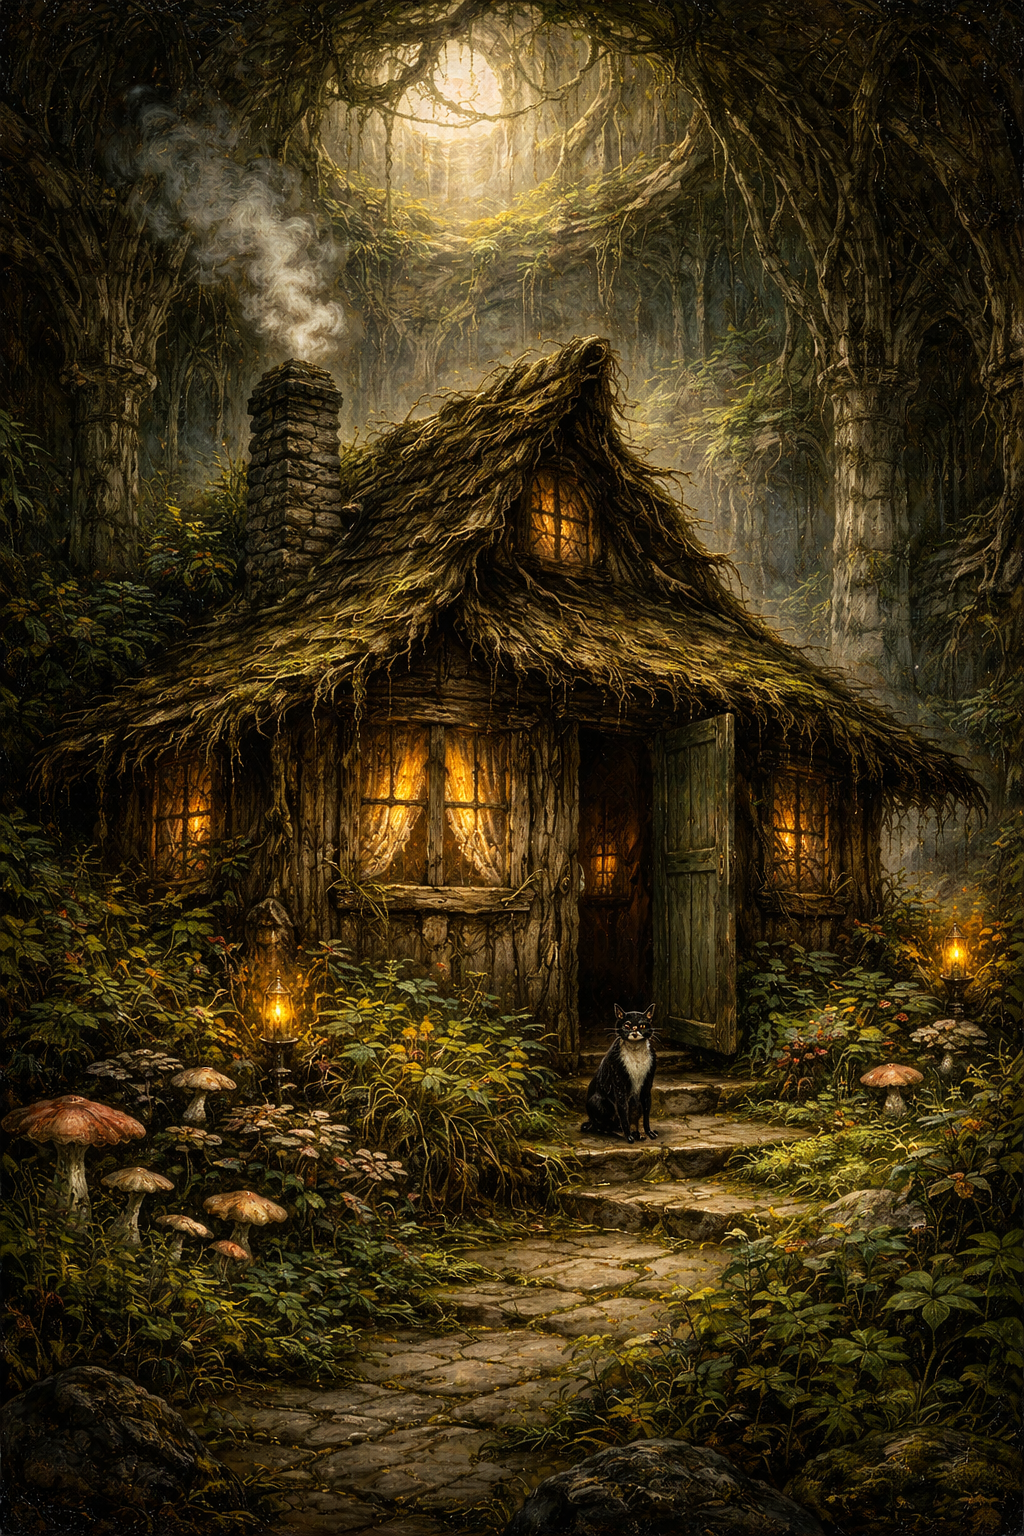
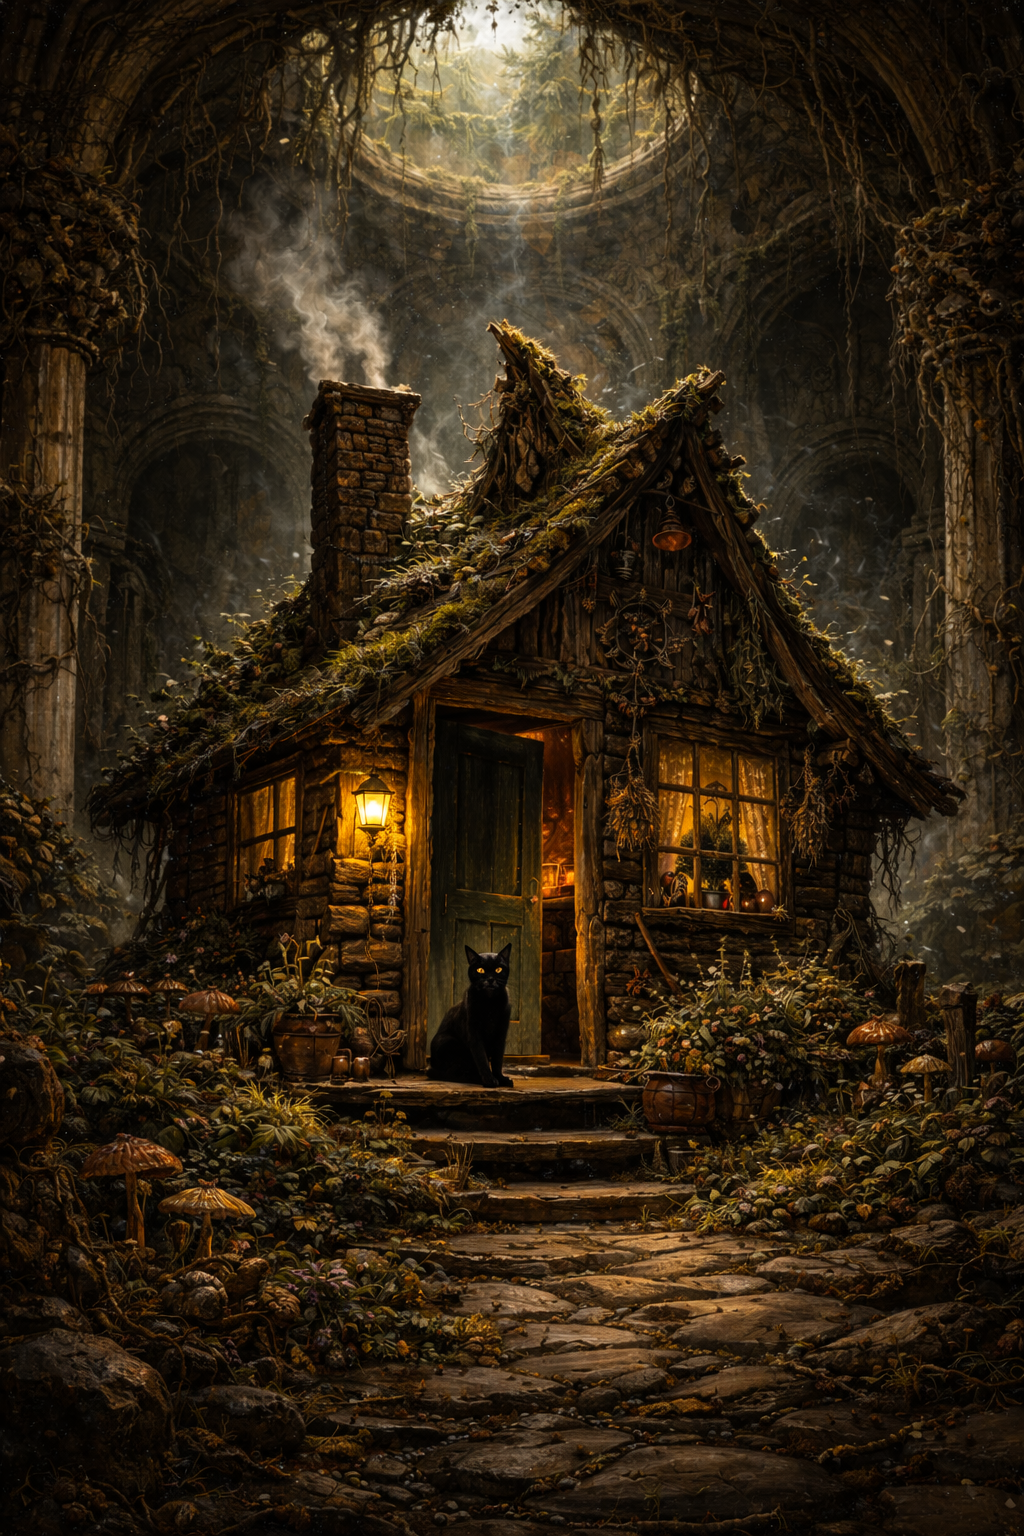
refactor(black-hollow): update Xerxes' appearance and NPC assets
- Change Xerxes' description from a tuxedo cat (black with white paws/face) to a completely black cat across all campaign notes and encounter descriptions.
- Add a dedicated portrait for Xerxes and update the environmental art for Morvanna's Cabin.

diff --git a/campaigns/black-hollow/Black Hollow - Minor NPCs.md b/campaigns/black-hollow/Black Hollow - Minor NPCs.md
@@ -130,7 +130,7 @@ campaign: "[[Black Hollow]]"
 ## **Xerxes, the Cat**
 
 - **Role:** The mysterious cat that seems to be known by everyone in town. Actually a **Fey Cat** — servo de [[ithiriel-keeper-of-the-garden|Morvanna]].
-- **Appearance:** A black cat with a white face and paws. Perto da cabana de Morvanna, a presença Fey é mais óbvia: olhos brilham com luz própria, pelo parece mudar de tom com a luz, movimentos antinaturalmente precisos.
+- **Appearance:** A completely black cat. Perto da cabana de Morvanna, a presença Fey é mais óbvia: olhos brilham com luz própria, pelo parece mudar de tom com a luz, movimentos antinaturalmente precisos.
 - **Personality:** Em Black Hollow: "just a normal black cat." Na cabana: **fala**. Frases curtas, crípticas, tom seco. Julga. Decide quem entra. Só deixa **um por vez**.
 - **Notable:** Mora na taverna há anos. **Implicação:** Morvanna sabe muito mais sobre Black Hollow e os PCs do que deveria. Tudo que Xerxes viu, ela viu.
 - **Quote (Black Hollow):** *"Miau."*

diff --git a/campaigns/black-hollow/dungeons/Aranketh/Locais/M - C13 - Jardins Suspensos de Sylvara/encounters/encounter-01-the-hags-cabin.md b/campaigns/black-hollow/dungeons/Aranketh/Locais/M - C13 - Jardins Suspensos de Sylvara/encounters/encounter-01-the-hags-cabin.md
@@ -34,7 +34,7 @@ Mas no **centro do átrio**, onde não deveria haver nada, há uma **cabana**.
 
 ## Xerxes
 
-Na soleira da porta, **um gato preto com face e patas brancas** está sentado. Não se move. Olha para o grupo. Depois olha para um deles especificamente.
+Na soleira da porta, **um gato completamente preto** está sentado. Não se move. Olha para o grupo. Depois olha para um deles especificamente.
 
 **Os PCs reconhecem:** É **Xerxes** — o gato da taverna em Black Hollow. O mesmo gato que mora lá há anos. Que todo mundo conhece.
 
